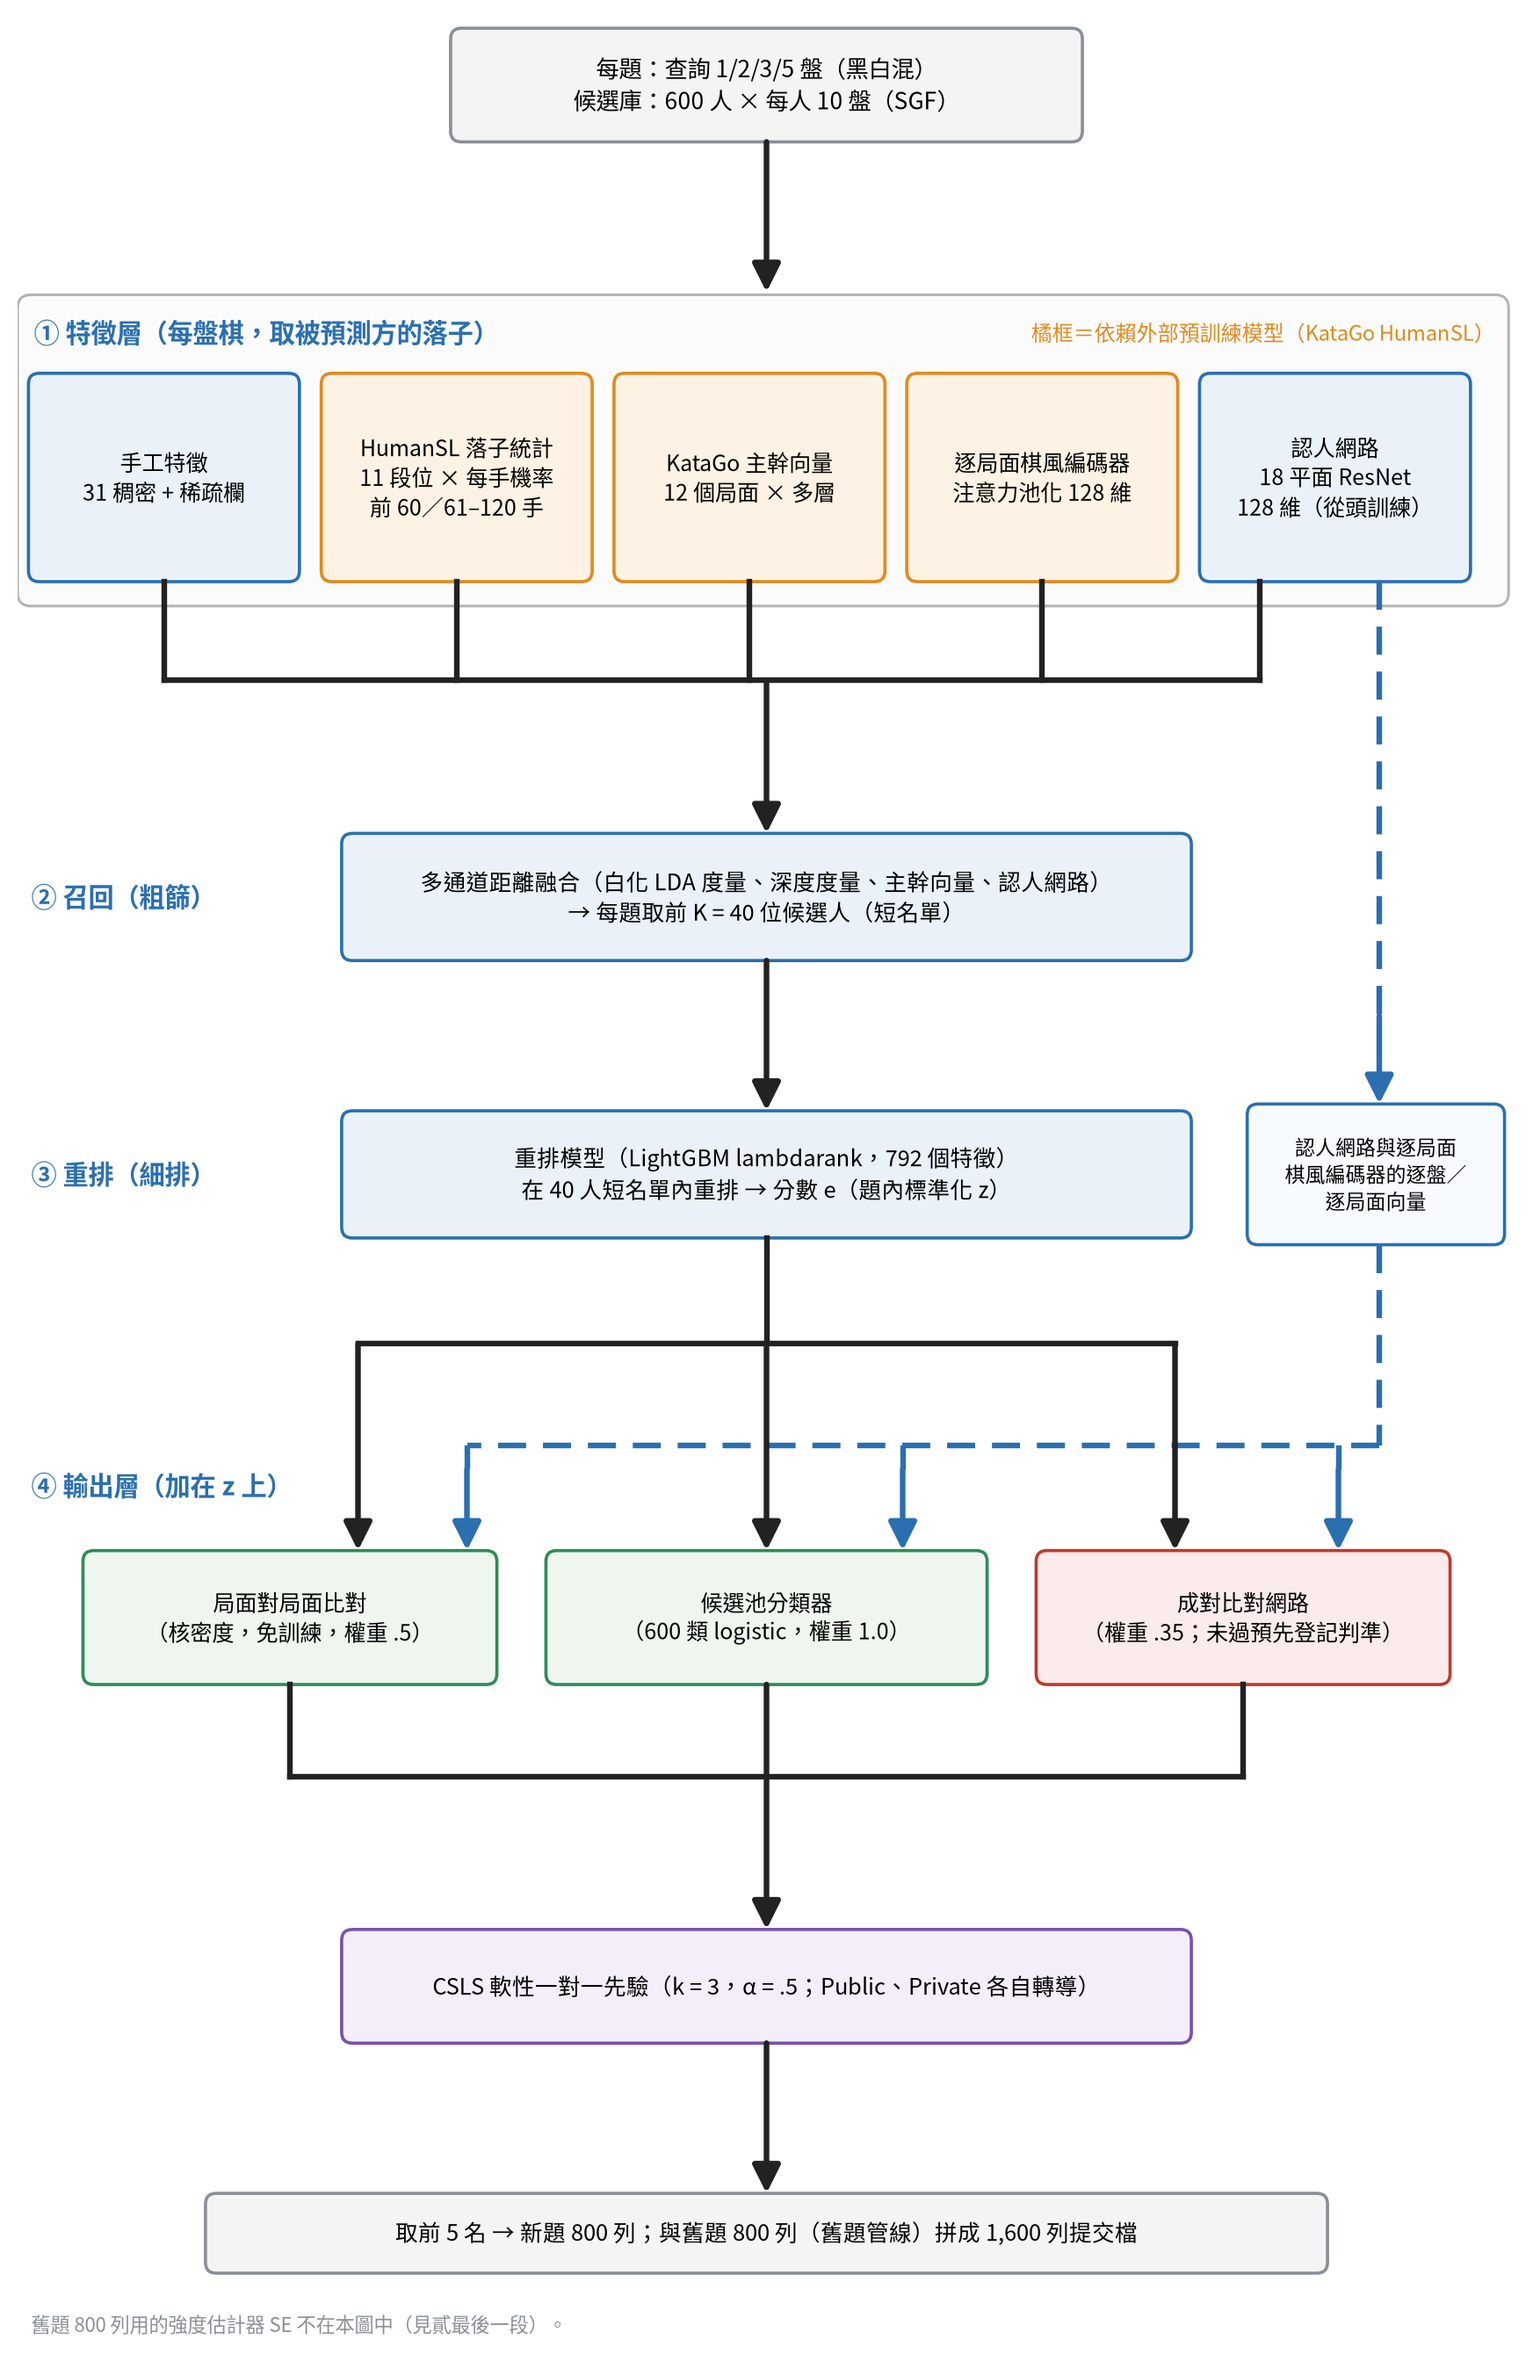
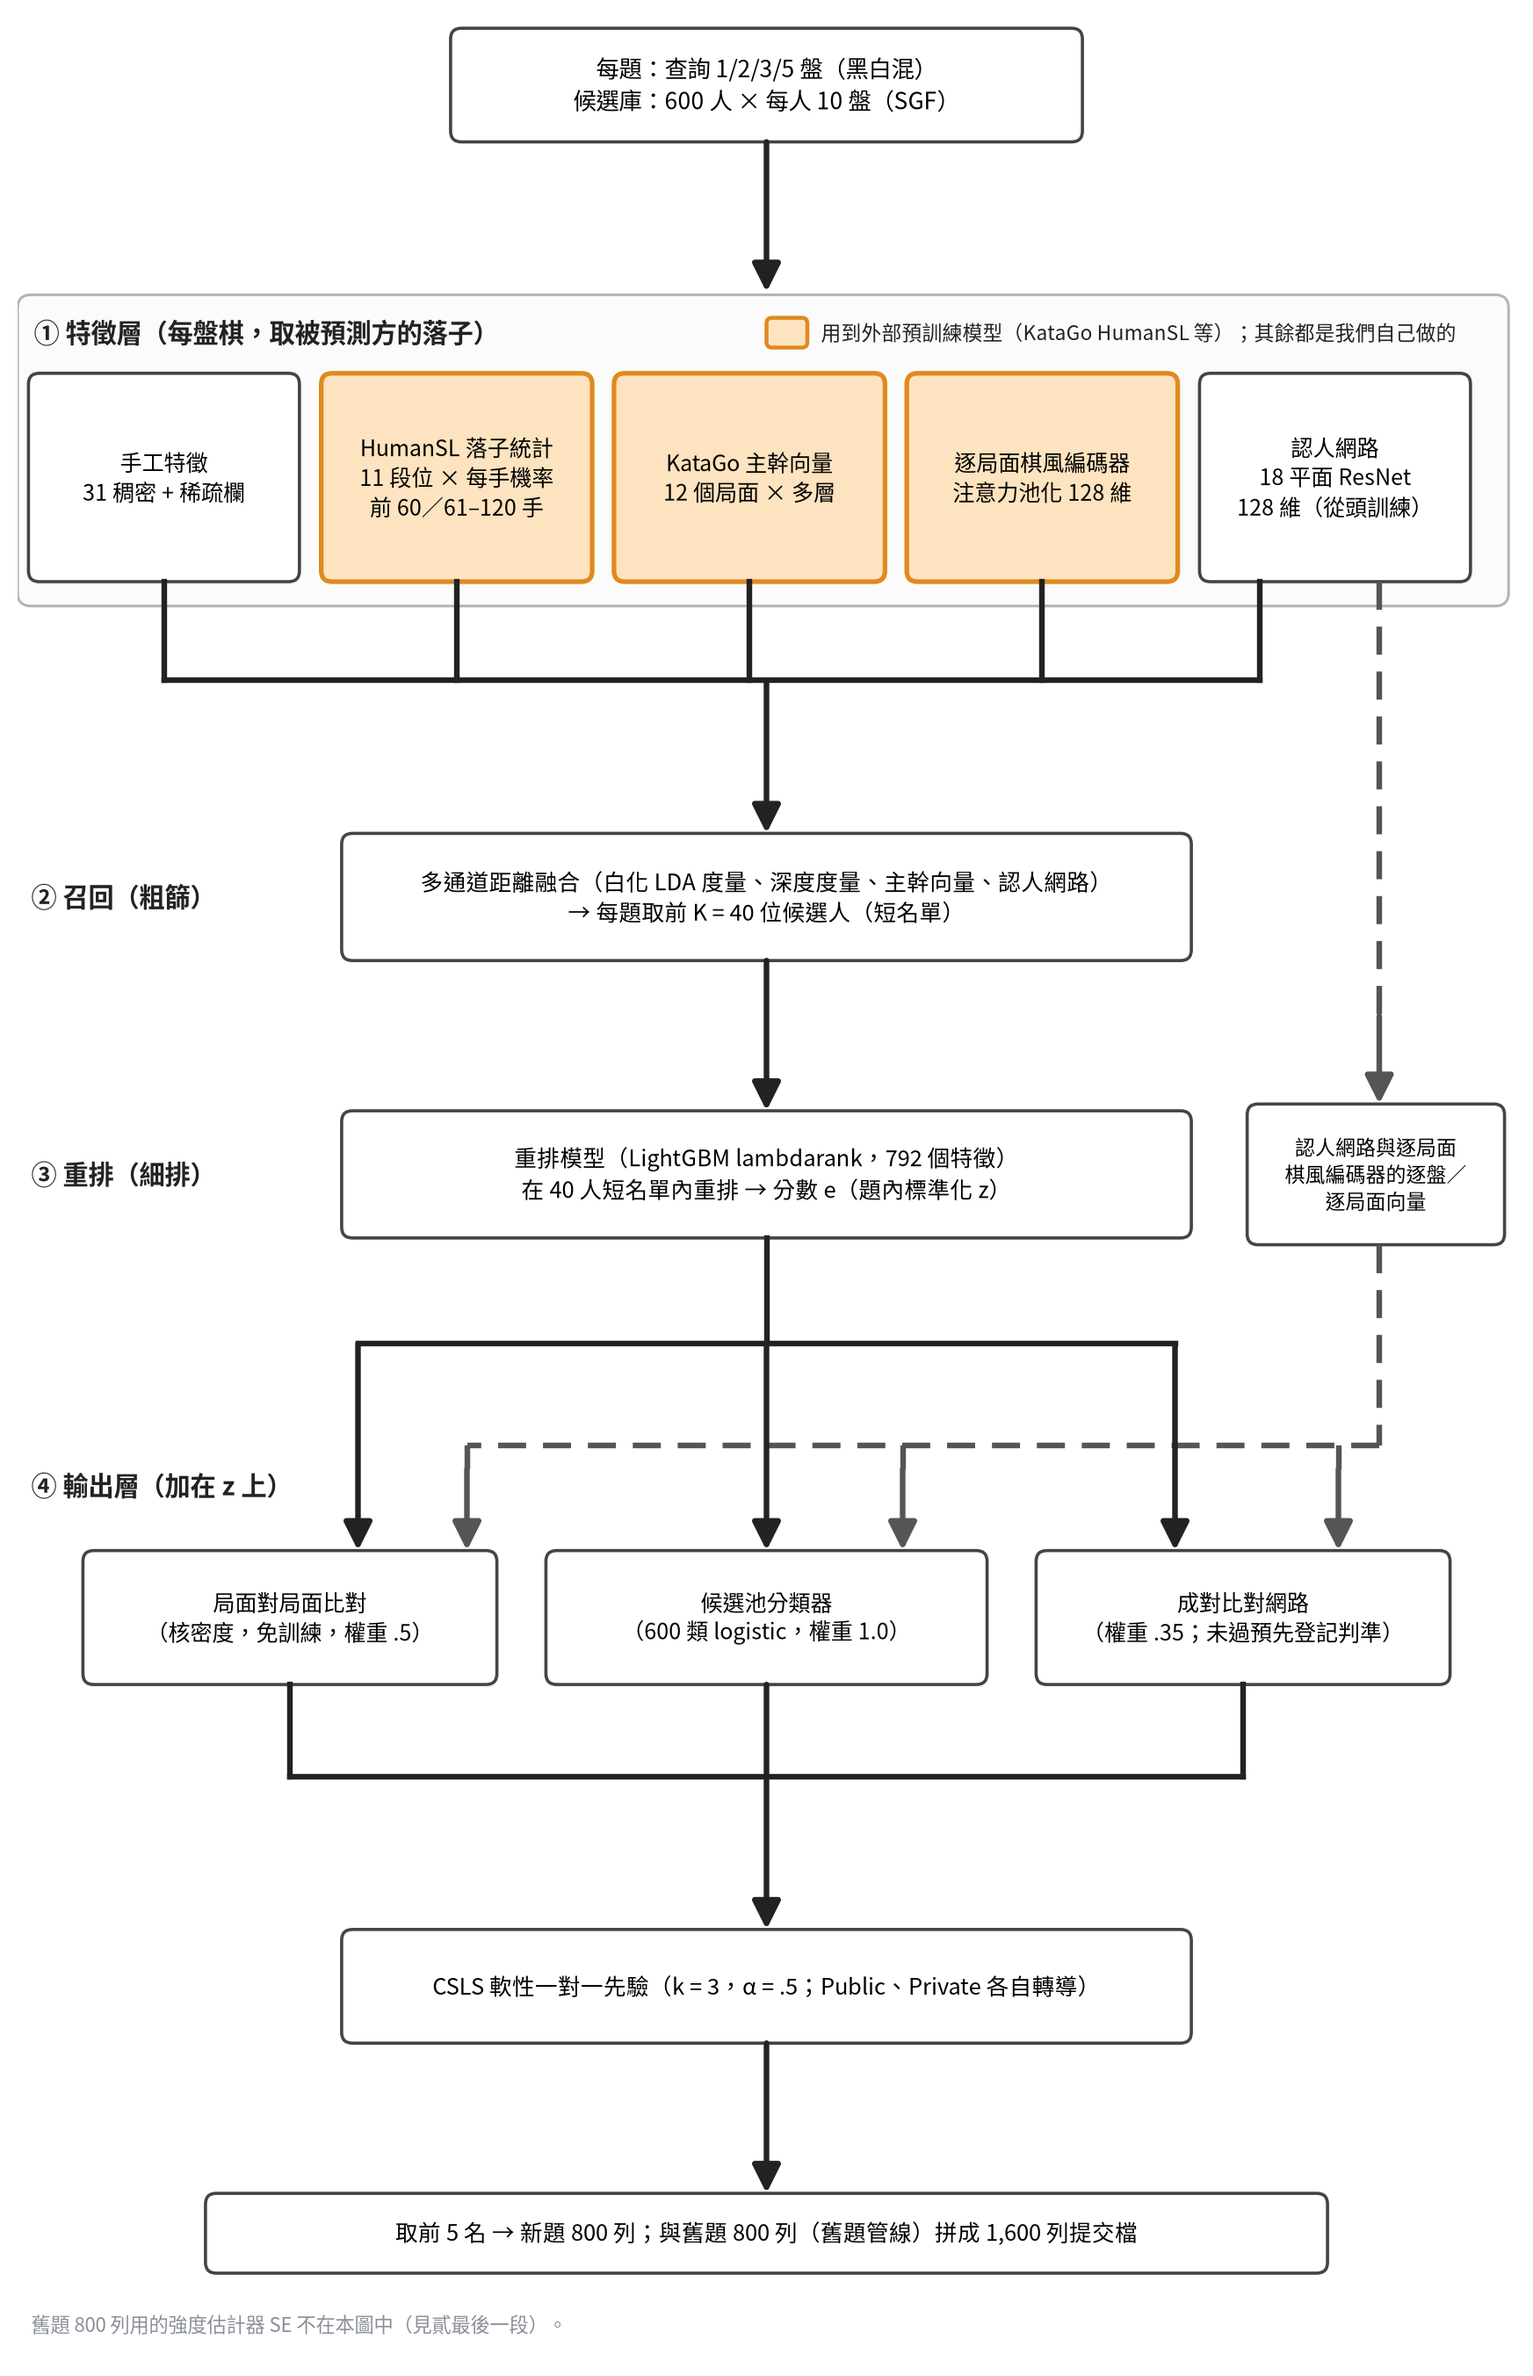
架構圖配色改為只標出外部預訓練模型

diff --git a/README.md b/README.md
@@ -23,7 +23,7 @@ English: code for AI CUP 2026 Go, task 1 (identify the player behind a set of ga
 
 提交檔共 1,600 列。新題 800 列走上面這條管線，舊題 800 列（候選庫每人 100 盤黑棋）沿用較早定案的另一條管線。
 
-![Player 新題管線架構，橘框是依賴 KataGo HumanSL 的元件](docs/architecture.png)
+![Player 新題管線架構，橘框是用到外部預訓練模型的元件，其餘都是我們自己做的](docs/architecture.png)
 
 ## 快速開始
 
